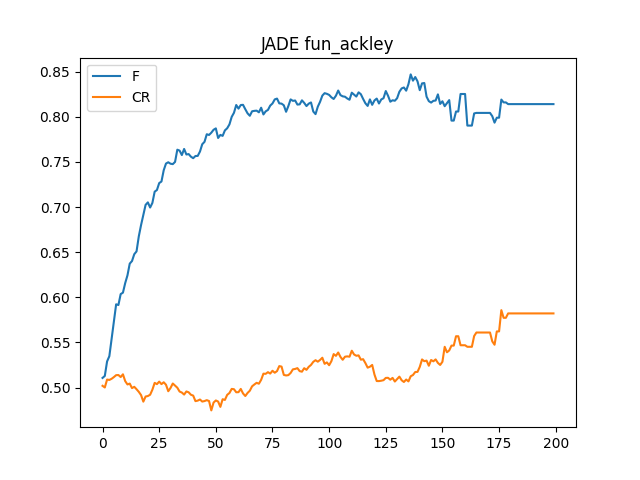
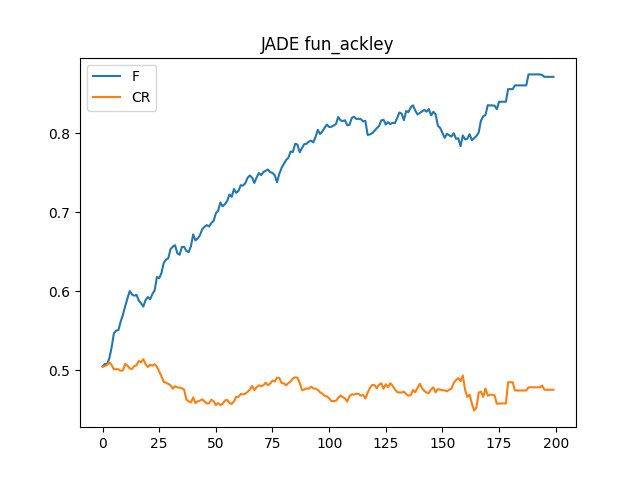
update

diff --git a/paper/test.py b/paper/test.py
@@ -41,7 +41,7 @@ def test(fun, bounds, its=1000, popsize=20, log=1):
     if log == 1:
         plt.yscale('log')
     plt.legend()
-    plt.savefig('C:\\Users\\zhang\\PycharmProjects\\differentialEvolution\\paper\\image2\\' + str(fun.__name__))
+    # plt.savefig('C:\\Users\\zhang\\PycharmProjects\\differentialEvolution\\paper\\image2\\' + str(fun.__name__))
     plt.show()
     pass
 
@@ -120,12 +120,12 @@ if __name__ == '__main__':
     #     shade_test_50(dic1[index][1], dic1[index][2], dic1[index][3])
     #     code_test_50(dic1[index][1], dic1[index][2], dic1[index][3])
     # pass
-
+    index1 = 2
     # for index in range(1, 21):
     #     test(dic1[index][1], dic1[index][2], dic1[index][3], popsize=popsize_dic[index], log=log_dic[index])
+    test(dic1[index1][1], dic1[index1][2], dic1[index1][3], popsize=popsize_dic[index1], log=log_dic[index1])
 
-    index1 = 1
-    jade_test(dic1[index1][1], dic1[index1][2], popsize=popsize_dic[index1], its=dic1[index1][3])
+    # jade_test(dic1[index1][1], dic1[index1][2], popsize=popsize_dic[index1], its=dic1[index1][3])
     # shade_test_1(dic1[index1][1], dic1[index1][2], popsize=popsize_dic[index1], its=dic1[index1][3])
     # sade_test_1(dic1[index1][1], dic1[index1][2], popsize=popsize_dic[index1], its=dic1[index1][3])
 

diff --git a/paper/jade.py b/paper/jade.py
@@ -75,7 +75,8 @@ def jade(fobj, bounds, popsize=100, its=1000, c=0.1):
         if s_cr:
             mean_cr = (1 - c) * mean_cr + c * np.mean(s_cr)
             mean_mut = (1 - c) * mean_mut + c * (sum(ff ** 2 for ff in s_mut) / sum(s_mut))
-        yield best, mean_mut, mean_cr, fitness_best
+        # yield best, mean_mut, mean_cr, fitness_best
+        yield best, fitness_best
         pass
     pass
 

diff --git a/paper/shade.py b/paper/shade.py
@@ -105,7 +105,8 @@ def shade(fobj, bounds, popsize=20, its=1000, h=100):
                 m = 1
                 pass
             pass
-        yield best, mf[r_i], mcr[r_i], fitness_best
+        # yield best, mf[r_i], mcr[r_i], fitness_best
+        yield best, fitness_best
 
 
 def shade_test(fun, bounds, popsize=100, its=3000, log=0):

diff --git a/README.md b/README.md
@@ -1,2 +1,4 @@
-# differential-evolution
-实现基本DE、改进算法JDE、SADE、JADE、SHADE。在20个benchmark函数上进行测试。
+# differential-evolution 差分进化算法
+基于基本DE实现改进算法JDE、SaDE、JADE、SHADE、CoDE。在20个benchmark函数上进行测试。
+>基本DE实现来自：https://pablormier.github.io/2017/09/05/a-tutorial-on-differential-evolution-with-python/
+> 
